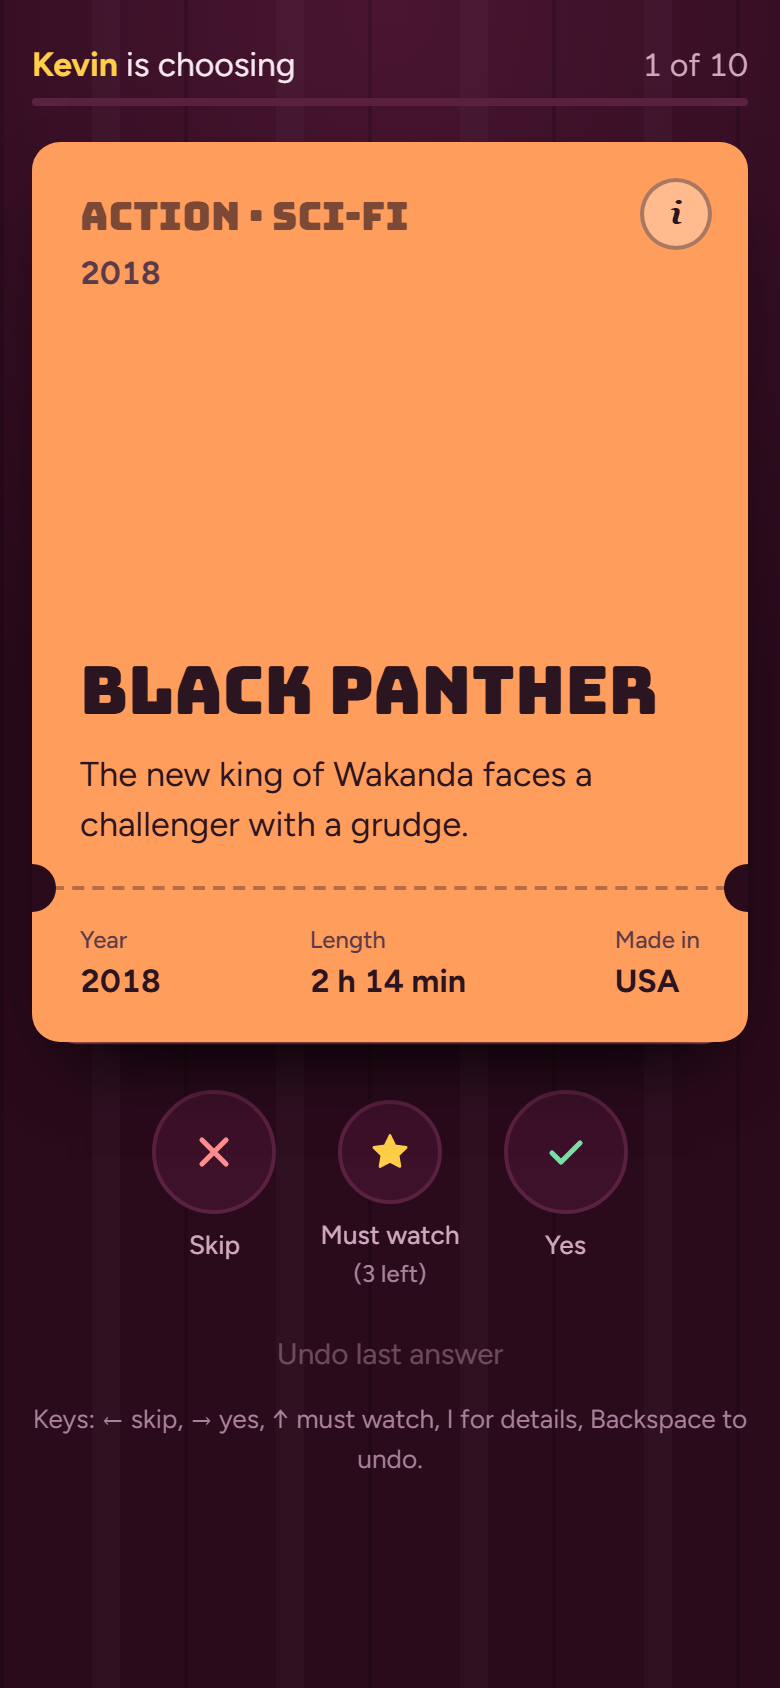
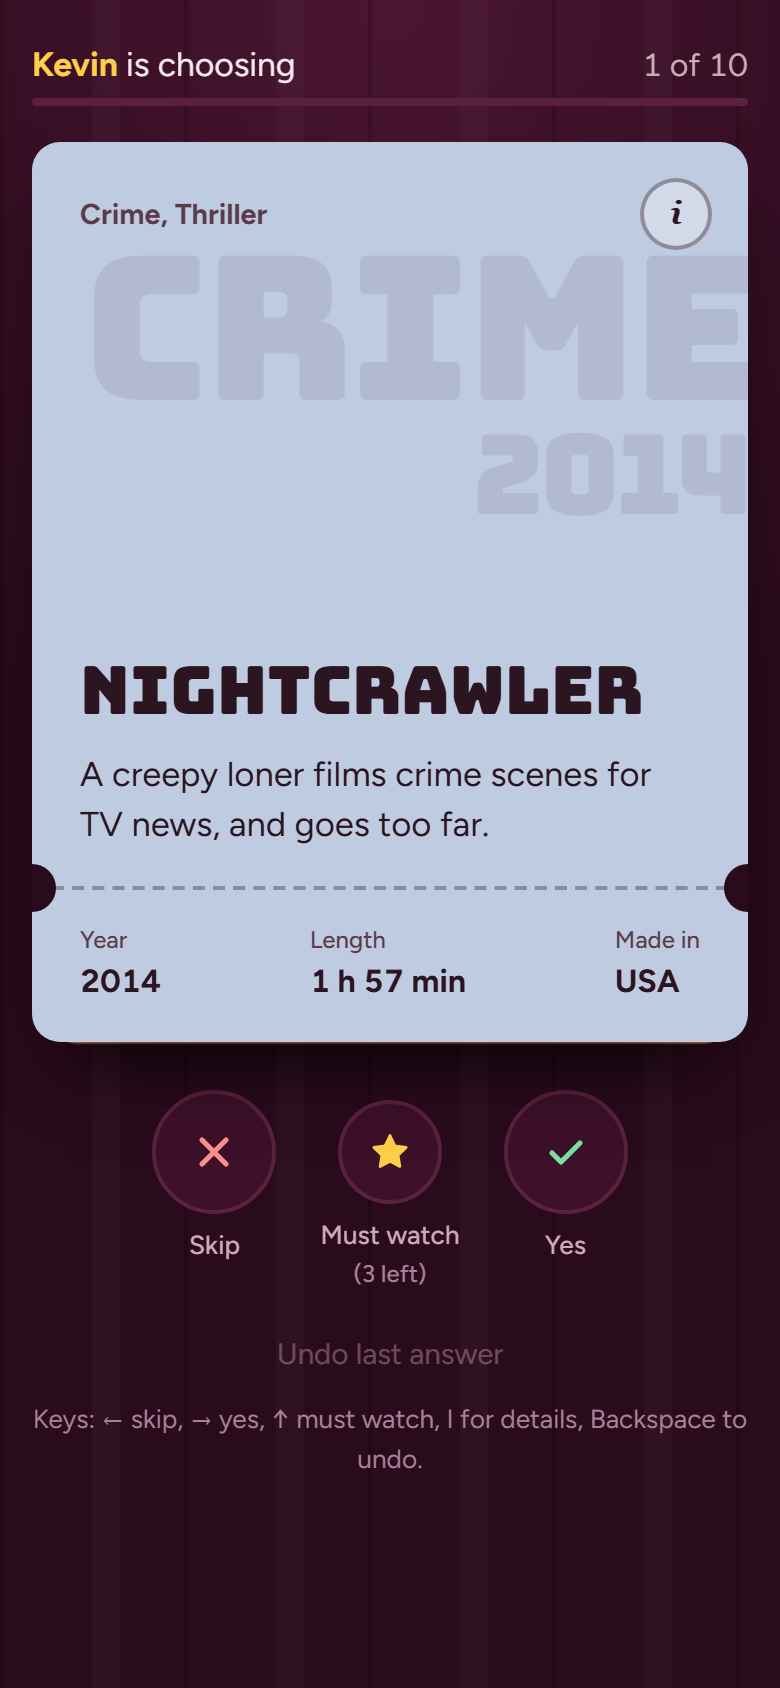
Ticket watermark shows the genre big, with the year smaller under it
Back to the old style (small genre line on top, big faint watermark),
but the watermark is now the first genre, sized to fit the card, with
the year at about half that size underneath. Own movies show "Own pick".

diff --git a/styles.css b/styles.css
@@ -294,12 +294,20 @@ select {
 }
 .face-back { transform: rotateY(180deg); padding: 24px 22px 18px; overflow-y: auto; }
 
+.face-front { container-type: inline-size; }
+.ticket-mark {
+  position: absolute; top: 46px; right: -6px;
+  display: flex; flex-direction: column; align-items: flex-end;
+  font-family: var(--display); line-height: .95;
+  color: rgba(43, 21, 32, .09);
+  letter-spacing: -.02em; text-transform: uppercase; white-space: nowrap;
+  pointer-events: none;
+}
+/* the genre fits the card; the year is always a bit more than half its size */
+.ticket-mark { font-size: min(6.4rem, calc(140cqw / var(--n, 4))); }
+.mark-year { font-size: .55em; margin-right: .1em; }
 .ticket-main { position: relative; flex: 1; padding: 26px 24px 18px; display: flex; flex-direction: column; }
-.ticket-tags { margin: 0 0 auto; padding-right: 44px; }
-.ticket-genres { margin: 0; font-family: var(--display); font-size: clamp(1.1rem, 5vw, 1.45rem); line-height: 1.15; color: rgba(43, 21, 32, .62); }
-.ticket-genres span { display: inline-block; white-space: nowrap; }
-.ticket-genres span:not(:last-child)::after { content: "\00a0·\00a0"; }
-.ticket-when { margin: 6px 0 0; font-weight: 700; font-size: 1rem; color: var(--ink-soft); font-variant-numeric: tabular-nums; }
+.ticket-genres { margin: 0 0 auto; padding-right: 40px; font-weight: 700; font-size: .9rem; color: var(--ink-soft); }
 .ticket-title {
   font-family: var(--display);
   font-size: clamp(1.8rem, 8.5vw, 2.4rem);

diff --git a/js/app.js b/js/app.js
@@ -693,14 +693,16 @@
     var inner = el("div", "ticket-inner");
     // ---- front
     var front = el("div", "face face-front");
+    // big faint watermark: the genre, with the year smaller underneath
+    var mark = el("div", "ticket-mark");
+    mark.setAttribute("aria-hidden", "true");
+    var word = movie.custom ? "Own pick" : movie.genres[0];
+    mark.style.setProperty("--n", Math.max(4, word.length)); // longer words get a smaller size so they fit
+    mark.appendChild(el("span", "mark-genre", word));
+    if (movie.year) mark.appendChild(el("span", "mark-year", String(movie.year)));
+    front.appendChild(mark);
     var main = el("div", "ticket-main");
-    // genre first and big, the year smaller underneath
-    var tags = el("div", "ticket-tags");
-    var genres = el("p", "ticket-genres");
-    (movie.custom ? ["Your own pick"] : movie.genres).forEach(function (g) { genres.appendChild(el("span", null, g)); });
-    tags.appendChild(genres);
-    if (movie.year) tags.appendChild(el("p", "ticket-when", String(movie.year)));
-    main.appendChild(tags);
+    main.appendChild(el("p", "ticket-genres", movie.custom ? "Your own pick" : movie.genres.join(", ")));
     main.appendChild(el("h2", "ticket-title" + (movie.title.length > 26 ? " is-long" : "") + (movie.title.length > 48 ? " is-longer" : ""), movie.title));
     if (movie.pitch) main.appendChild(el("p", "ticket-pitch", movie.pitch));
     front.appendChild(main);
